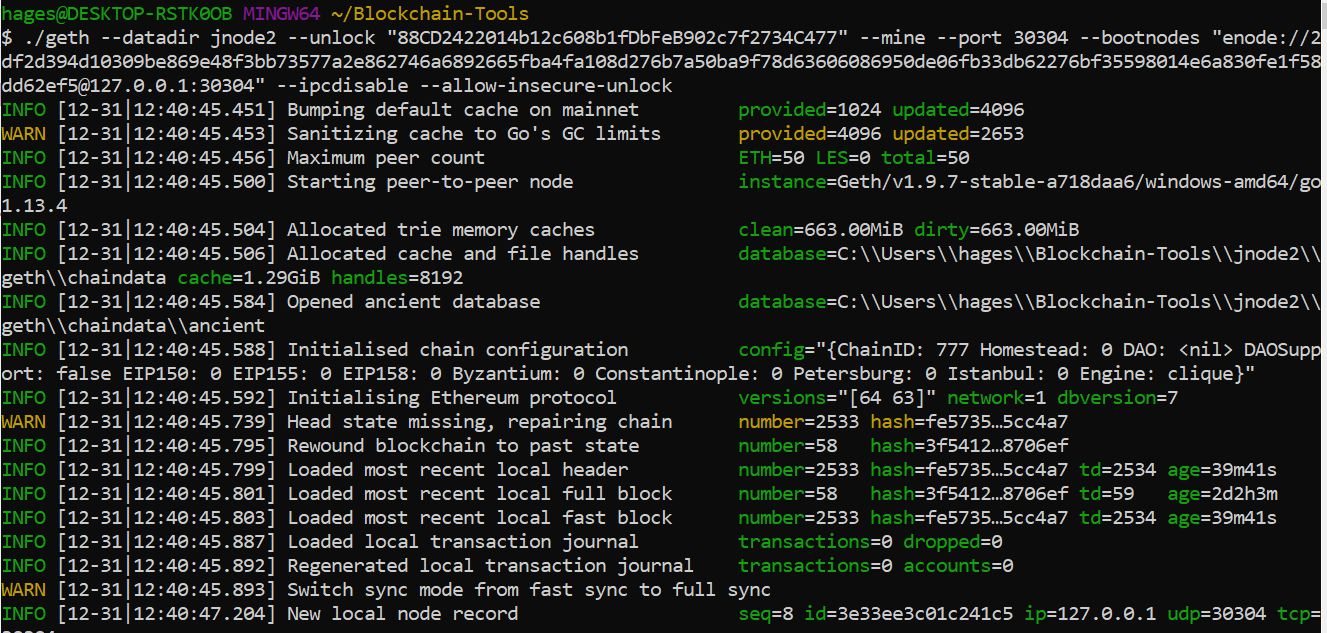
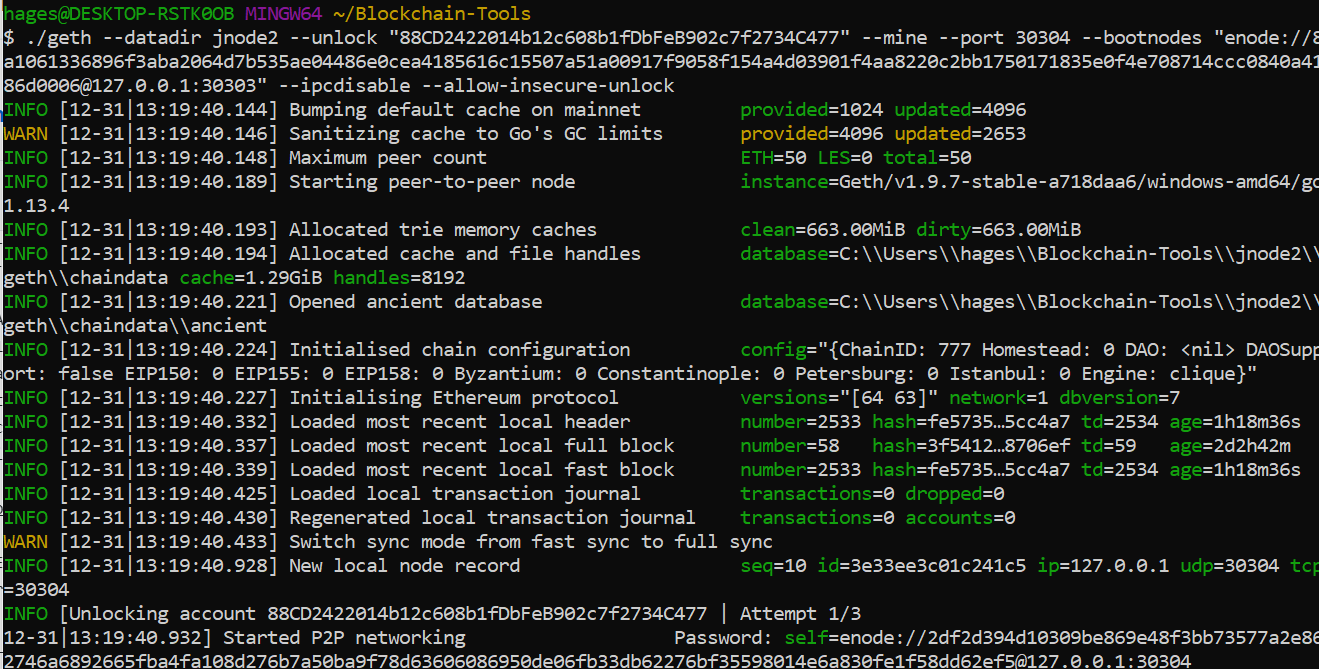
updating node2_unlock file to correct version and adding blockchain operating guide

diff --git a/blockchain_operating_guide.md b/blockchain_operating_guide.md
@@ -1,0 +1,117 @@
+## Overview
+Below you will find details of the blockchain created.  The configuration of the blockchain is outlined below, along with instructions on how to start the blockchain following creation.  Additionally, details are provided on how to test the blockchain, via sending transactions using MyCrypto.  Screenshots are provided to help visualize each process.  Additional screenshots can be found in the "Screenshots" folder for reference.  
+
+### Network Configuration
+The network is configured as follows: 
+- Blocktime of 15 seconds, which is the default setting.  This represents the amount of time for a block to be included in the blockchain. 
+- The network ChainID is 777. 
+- An account password is set up on this network and will be needed to activate each node.  The password can be provided upon request. 
+- Both nodes created are mining nodes, as can be identified in the geth commands outlined in the section below. 
+- Node 1 and node 2 operate on separate ports (30303 and 30304, respectively). 
+- A test network named "jolt" has been set up on MyCrypto to allow for testing of the network and sending transactions. 
+- The screenshots below outline the steps of network configuration. 
+
+![Network Configuration](Screenshots/puppeth_config1.PNG)
+![Network Configuration](Screenshots/puppeth_config2.PNG)
+![Network Configuration](Screenshots/puppeth_config3.PNG)
+![Network Configuration](Screenshots/puppeth_config4.PNG)
+
+### Starting the Blockchain 
+The first step to allow access to launching the blockchain will be to ensure all Go Ethereum (geth) tools are installed.  Additionally, a MyCrypto wallet will need to be created.  Instructions to complete both tasks can be found here: [Install Guide](blockchain-install-guide.md)
+
+Once all Go Ethereum dependencies are installed and a MyCrpto wallet is created, the blockchain can be launched via your terminal (GitBash on Windows).  The exact instructions outlined below are based on a Windows PC and utilizing GitBash.  Activation instructions may vary slightly depending on your operating system.  
+
+- Launch a terminal window (GitBash) and navigate to your Blockchain-Tools folder (created in the above install instructions).  
+- Unlock node1 (named jnode1 in this network) with the command below.  
+
+  -  ./geth --datadir jnode1 --unlock "SEALER_ONE_ADDRESS" --mine --rpc --allow-insecure-unlock
+  - IMPORTANT: When entering the sealer one address, be sure to leave the 0x pretense off the address when pasting it into your terminal (ex: 3a2dD48d933C50A3A5e9cd33A83D9C7C7F9Cc5ca).  Additional sealer one address info can be found below.  
+  - What does all of this mean?  The --datadir command accesses node 1 (named jnode1 in this network).  The sealer address is inputted to activate the node.  The --mine command designates the node as a mining node.  Finally, the --rpc command directs the system where to process and return results. 
+  
+![Node 1 Unlock](Screenshots/node1_unlock.PNG)
+
+- Unlock node2 (named jnode2 in this network) with the command below.
+  -  ./geth --datadir jnode2 --unlock "SEALER_TWO_ADDRESS" --mine --port 30304 --bootnodes "enode://SEALER_ONE_ENODE_ADDRESS@127.0.0.1:30303" --ipcdisable --allow-insecure-unlock
+    - IMPORTANT: When entering the sealer two address, be sure to leave the 0x pretense off the address when pasting it into your terminal (ex: 88CD2422014b12c608b1fDbFeB902c7f2734C477).  Additional sealer two address info can be found below. 
+  - All commands operate in the same way as in node 1.  However, as noticed there are a few different / extra commands needed to unlock node 2.  The --port 30304 command simply directs this node to operate in a new port (30304 vs. 30303 for node 1).  This is because node 2 is mining separately in a separate terminal window.  The --bootnodes command directs node 2 to sync with node 1, which is why it is referencing the node 1 enode address.  Finally, the --ipcdisable is used to disable the IPC-RPC server on Windows.  This is again due to node 2 operating in a separate terminal window to node 1, which enabled RPC (--rpc command). 
+
+![Node 2 Unlock](Screenshots/node2_unlock.PNG)
+
+  - The SEALER_ONE_ADDRESS, SEALER_TWO_ADDRESS, and SEALER_ONE_ENODE_ADDRESS were provided when creating and initializing each node.  A best practice is to document these addresses for ease of blockchain unlocking.  Screenshots are provided for reference in the "Screenshots" folder.  For reference, all info is listed below. 
+  
+    - SEALER_ONE_ADDRESS: 0x3a2dD48d933C50A3A5e9cd33A83D9C7C7F9Cc5ca
+    - SEALER_TWO_ADDRESS: 0x88CD2422014b12c608b1fDbFeB902c7f2734C477
+    - SEALER_ONE_ENODE_ADDRESS: enode://8a1061336896f3aba2064d7b535ae04486e0cea4185616c15507a51a00917f9058f154a4d03901f4aa8220c2bb1750171835e0f4e708714ccc0840a4186d0006@127.0.0.1:30303
+  
+- Once the above steps are complete the blockchain will be up and running again.  
+
+### The Network Running
+
+The screen shots below provide an example of what the network looks like once it is activated and running.  The first screen shot is an example of node 1 in operation, and the second screen shot is an example of node 2 in operation. 
+
+![Running Nodes](Screenshots/node1_action.PNG)
+![Running Nodes](Screenshots/node2_action.PNG)
+
+### Testing the Blockchain - MyCrypto
+To ensure the blockchain is operating as designed, it can be tested using MyCrypto.  The steps outlined below explain how to connect to a custom network on MyCrypto and test the network by sending transactions.  
+
+- Open MyCrypto and click on "Change Network" in the bottom left corner. 
+
+![Changing Network](Screenshots/my_crypto_change_network.PNG)
+
+- Click "Add Custom Node". 
+
+![Custom Node](Screenshots/my_crypto_custom_node.PNG)
+
+- Make sure to select "Custom" for the network.  This will generate additional fields to be filled in.  
+
+- Enter the Node Name, the Network(should already be set to "Custom" from the step above), the Network Name, Currency, ChainID, and URL. 
+  - The Currency should be set to ETH, and the ChainID will be the chain id generated when creating the genesis block. 
+  - The URL will be: http://127.0.0.1:8545. 
+- Click "Save & Use Custom Node".
+
+![Changing Network](Screenshots/my_crypto_setting_network.PNG)
+
+- You can verify you are connected to your newly created network by checking the network connection. 
+
+![Changing Network](Screenshots/my_crypto_network_verify.PNG)
+
+Now that we are connected to the network created above, we can begin testing it by generating transactions between accounts.  Follow the steps outlined below to complete this. 
+
+- Make sure you are on the "View & Send" tab in MyCrypto. 
+
+![Testing Network](Screenshots/my_crypto_keystore1.PNG)
+
+- From there, click on "Keystore File".  This will bring up a new window, allowing you to unlock your keystore file. 
+
+![Testing Network](Screenshots/my_crypto_keystore2.PNG)
+
+- Click on "Select Wallet File".  From there navigate to the directory where the node data was saved.  Access the "node1" folder and then the "keystore" folder.  Click on the file within the keystore folder and click open.  
+
+![Testing Network](Screenshots/my_crypto_keystore3.PNG)
+
+- The password created during the node generation will need to be entered to unlock the the file.  Once this is done, click "Unlock". 
+
+![Testing Network](Screenshots/my_crypto_keystore4.PNG)
+
+Now that the account is unlocked, we are ready to send a transaction.  To do this, follow the steps below. 
+
+- Enter the account address for node2 in the "To Address" box.  
+
+![Testing Network](Screenshots/my_crypto_transaction1.PNG)
+
+- Enter an amount to be sent to that account and click "Send Transaction"
+
+![Testing Network](Screenshots/my_crypto_transaction2.PNG)
+
+- A green confirmation message should populate below.  Within that box click on the "Check TX Status" button.  
+
+![Testing Network](Screenshots/my_crypto_transaction3.PNG)
+
+- The transaction may still show in "Pending" status, but once "Check TX Status" is clicked again it should change to "Successful" status. 
+
+![Testing Network](Screenshots/my_crypto_transaction4.PNG)
+
+- To view this transaction at a later time, you can also click on the "TX Status" button on the left hand side of the MyCrypto app.  From there you can enter the transaction hash (TX Hash), click "Check TX Status" and view the status once again.  
+
+![Testing Network](Screenshots/my_crypto_transaction5.PNG)
